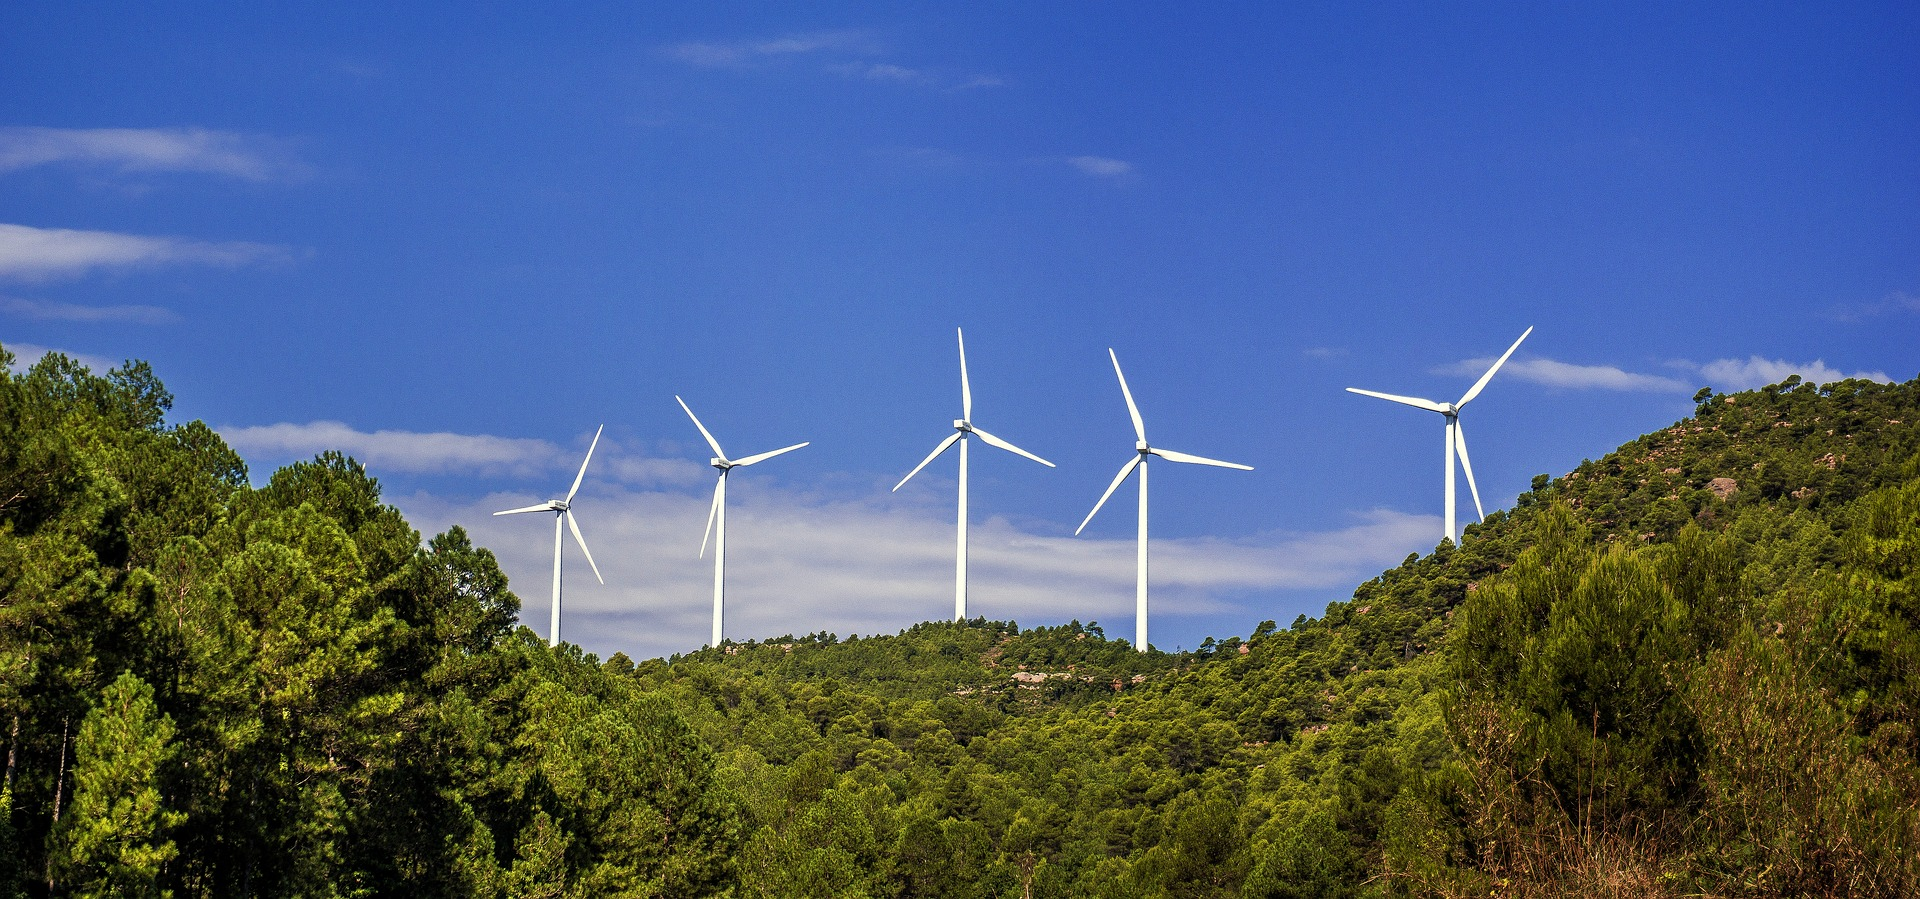
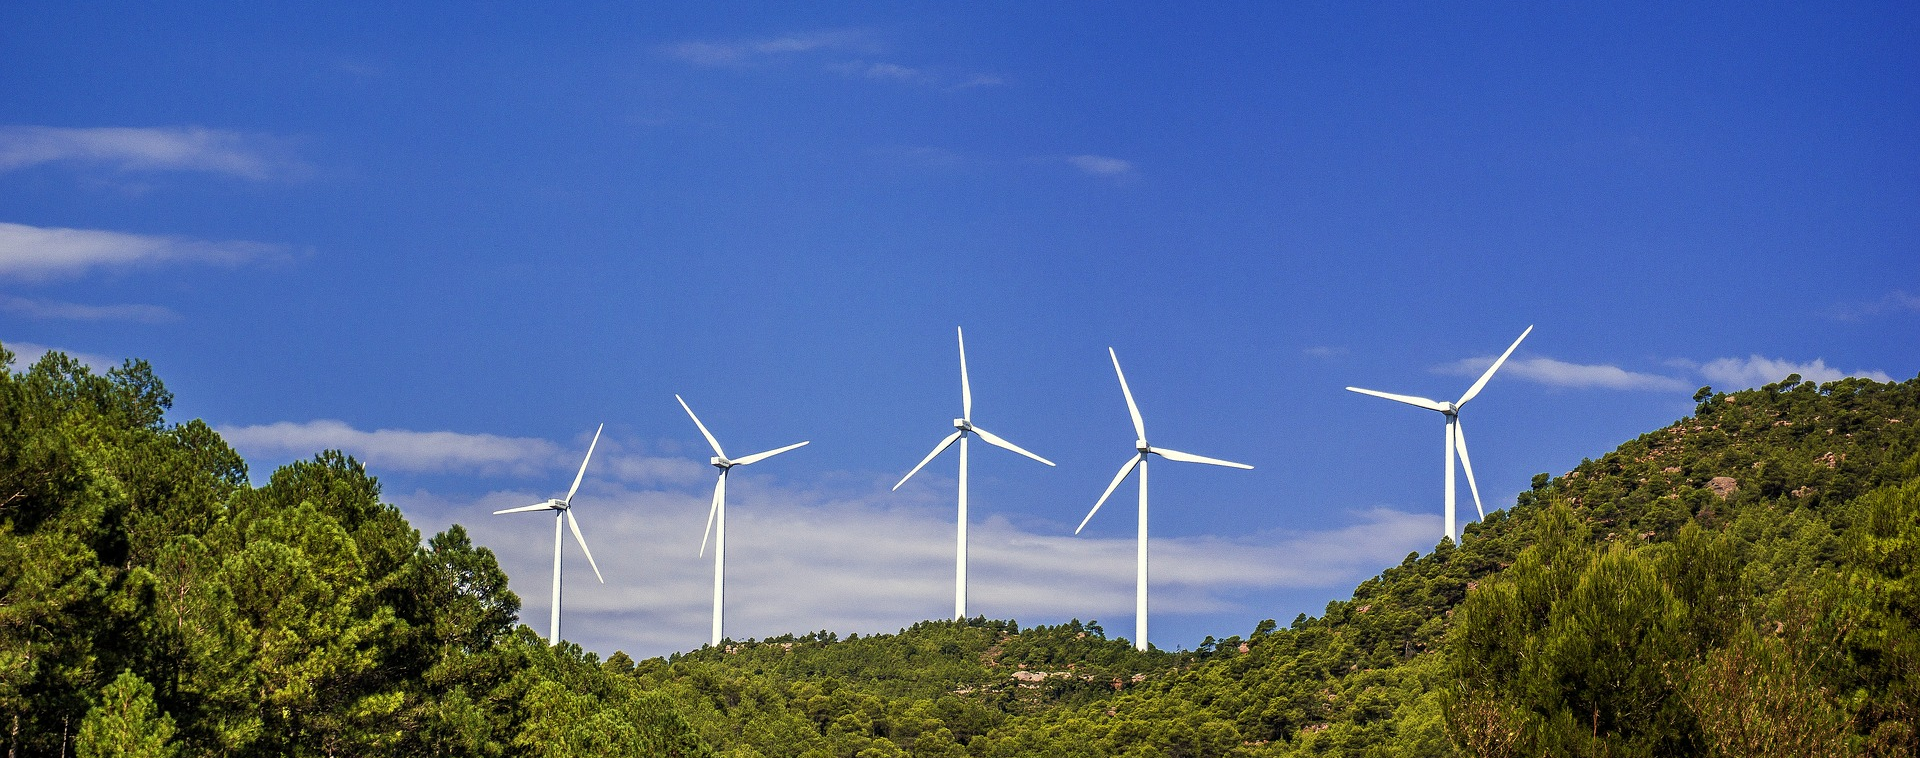
image touch ups

diff --git a/index.html b/index.html
@@ -63,6 +63,7 @@
       .anima-container-center-horizontal {
         justify-content: center;
         width: 100%;
+        background-color: transparent;
       }
 
       .anima-container-center-vertical > *,
@@ -82,8 +83,9 @@
 
       .anima-splash {
         background-image: url("img/energy-3625824-1920-1@1x.png");
-        background-position: center top;
-      
+        background-position: center top; 
+        background-repeat: no-repeat;
+        overflow: hidden;
       }
 
       .anima-auto-animated div {
